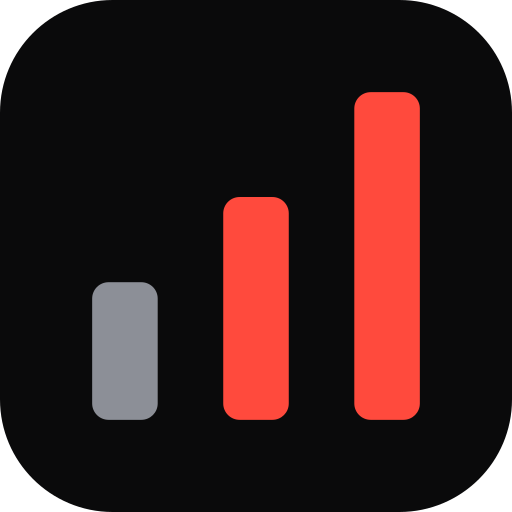
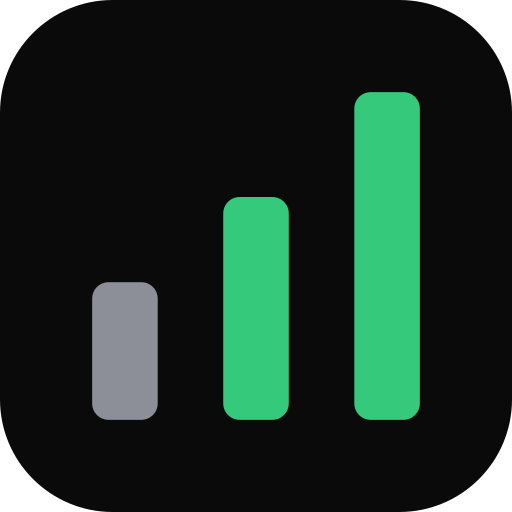
feat(theme): green accent everywhere, and land returning visitors on light
Retires the design's red accent.

- Dark theme accent becomes #35c97b. That is already the palette's --ok, so
  the system had the colour; nothing new was invented. It measures 9.23:1
  on --bg against the red's 5.94:1, and black on it reaches 9.79:1 for
  button labels versus the red's 6.30:1 — the swap is a contrast gain, not
  just a hue change.
- Light theme was already green (#0f7a3d) and is unchanged.
- Both OG images and the Calendly popup palette follow.
- Favicons regenerated green, and the generator is now scripts/build-icons.mjs
  rather than a throwaway, so the mark can be rebuilt when a token moves.

Reddit's #FF4500 stays: it is that brand's own logo colour in the stack
strip, not the site accent.

fix(theme): bump the theme storage key to sf-theme-2

Light was already the default in the previous commit, but anyone who had
pressed the toggle under the old dark-default build still had "dark" saved
under the old key, so the new default could never reach them — the site
kept opening dark and looked unchanged. A new key retires those saved
values once and lands everyone on light; the toggle then works as before.

Changed region(s): [[0.6875, 0.1562, 0.8438, 0.8438], [0.4375, 0.375, 0.5625, 0.8438]]

diff --git a/app/globals.css b/app/globals.css
@@ -62,10 +62,12 @@
   --text: #fafafa;
   --muted: #a7aab2;
   --faint: #8c8f97;
-  --accent: #ff4a3d;
-  --ink: #ff4a3d;
-  /* The design's #170603 clears AA at 5.92:1, but at 13px uppercase mono on a
-     saturated red it reads muddy. True black takes it to 6.30:1. */
+  /* Green accent in both themes — the design's red is retired. #35c97b is
+     already the palette's --ok, so this is a colour the system had, not a new
+     one. It measures 9.23:1 on --bg and 8.80:1 on --surface, well above the
+     red's 5.94:1, and black on it reaches 9.79:1 for button labels. */
+  --accent: #35c97b;
+  --ink: #35c97b;
   --on-accent: #000000;
   --ok: #35c97b;
   --result: #35c97b;

diff --git a/app/layout.tsx b/app/layout.tsx
@@ -83,7 +83,7 @@ export const viewport: Viewport = {
  * Applied before paint so a stored theme never flashes. Light is the default,
  * so anything other than an explicit "dark" resolves to light.
  */
-const themeBootstrap = `(function(){try{var t=localStorage.getItem("sf-theme");document.documentElement.dataset.theme=t==="dark"?"dark":"light";}catch(e){document.documentElement.dataset.theme="light";}})();`;
+const themeBootstrap = `(function(){try{var t=localStorage.getItem("sf-theme-2");document.documentElement.dataset.theme=t==="dark"?"dark":"light";}catch(e){document.documentElement.dataset.theme="light";}})();`;
 
 export default function RootLayout({
   children,

diff --git a/lib/calendly.ts b/lib/calendly.ts
@@ -26,8 +26,8 @@ export const CALENDLY_WIDGET_CSS =
  */
 const PALETTE: Record<Theme, { background: string; text: string; primary: string }> =
   {
-    // primary is the exact brand accent — no lightening needed at 5.06:1.
-    dark: { background: "1a1d23", text: "ffffff", primary: "ff4a3d" },
+    // primary is the exact brand accent for each theme.
+    dark: { background: "1a1d23", text: "ffffff", primary: "35c97b" },
     // light maps 1:1 onto --surface / --text / --accent.
     light: { background: "ffffff", text: "0a0a0b", primary: "0f7a3d" },
   };

diff --git a/lib/theme.ts b/lib/theme.ts
@@ -4,7 +4,13 @@ import { useSyncExternalStore } from "react";
 
 export type Theme = "dark" | "light";
 
-const STORAGE_KEY = "sf-theme";
+/**
+ * Bumped from "sf-theme" when light became the default. Anyone who had
+ * toggled under the old dark-default build still had "dark" saved, so the new
+ * default would never have reached them — a new key retires those values once
+ * and lands everyone on light.
+ */
+const STORAGE_KEY = "sf-theme-2";
 const EVENT = "sf-theme-change";
 
 export function getTheme(): Theme {

diff --git a/app/opengraph-image.tsx b/app/opengraph-image.tsx
@@ -14,8 +14,8 @@ const BORDER = "#24252A";
 const TEXT = "#FAFAFA";
 const MUTED = "#A7AAB2";
 const FAINT = "#8C8F97";
-const ACCENT = "#FF4A3D";
-const ON_ACCENT = "#170603";
+const ACCENT = "#35C97B";
+const ON_ACCENT = "#000000";
 
 export default async function OpengraphImage() {
   // Read from disk rather than fetch(new URL(..., import.meta.url)): Turbopack

diff --git a/app/tracking-plan/opengraph-image.tsx b/app/tracking-plan/opengraph-image.tsx
@@ -14,8 +14,8 @@ const BORDER = "#24252A";
 const TEXT = "#FAFAFA";
 const MUTED = "#A7AAB2";
 const FAINT = "#8C8F97";
-const ACCENT = "#FF4A3D";
-const ON_ACCENT = "#170603";
+const ACCENT = "#35C97B";
+const ON_ACCENT = "#000000";
 
 export default async function OpengraphImage() {
   const font = (name: string) => readFile(join(process.cwd(), "app", name));
